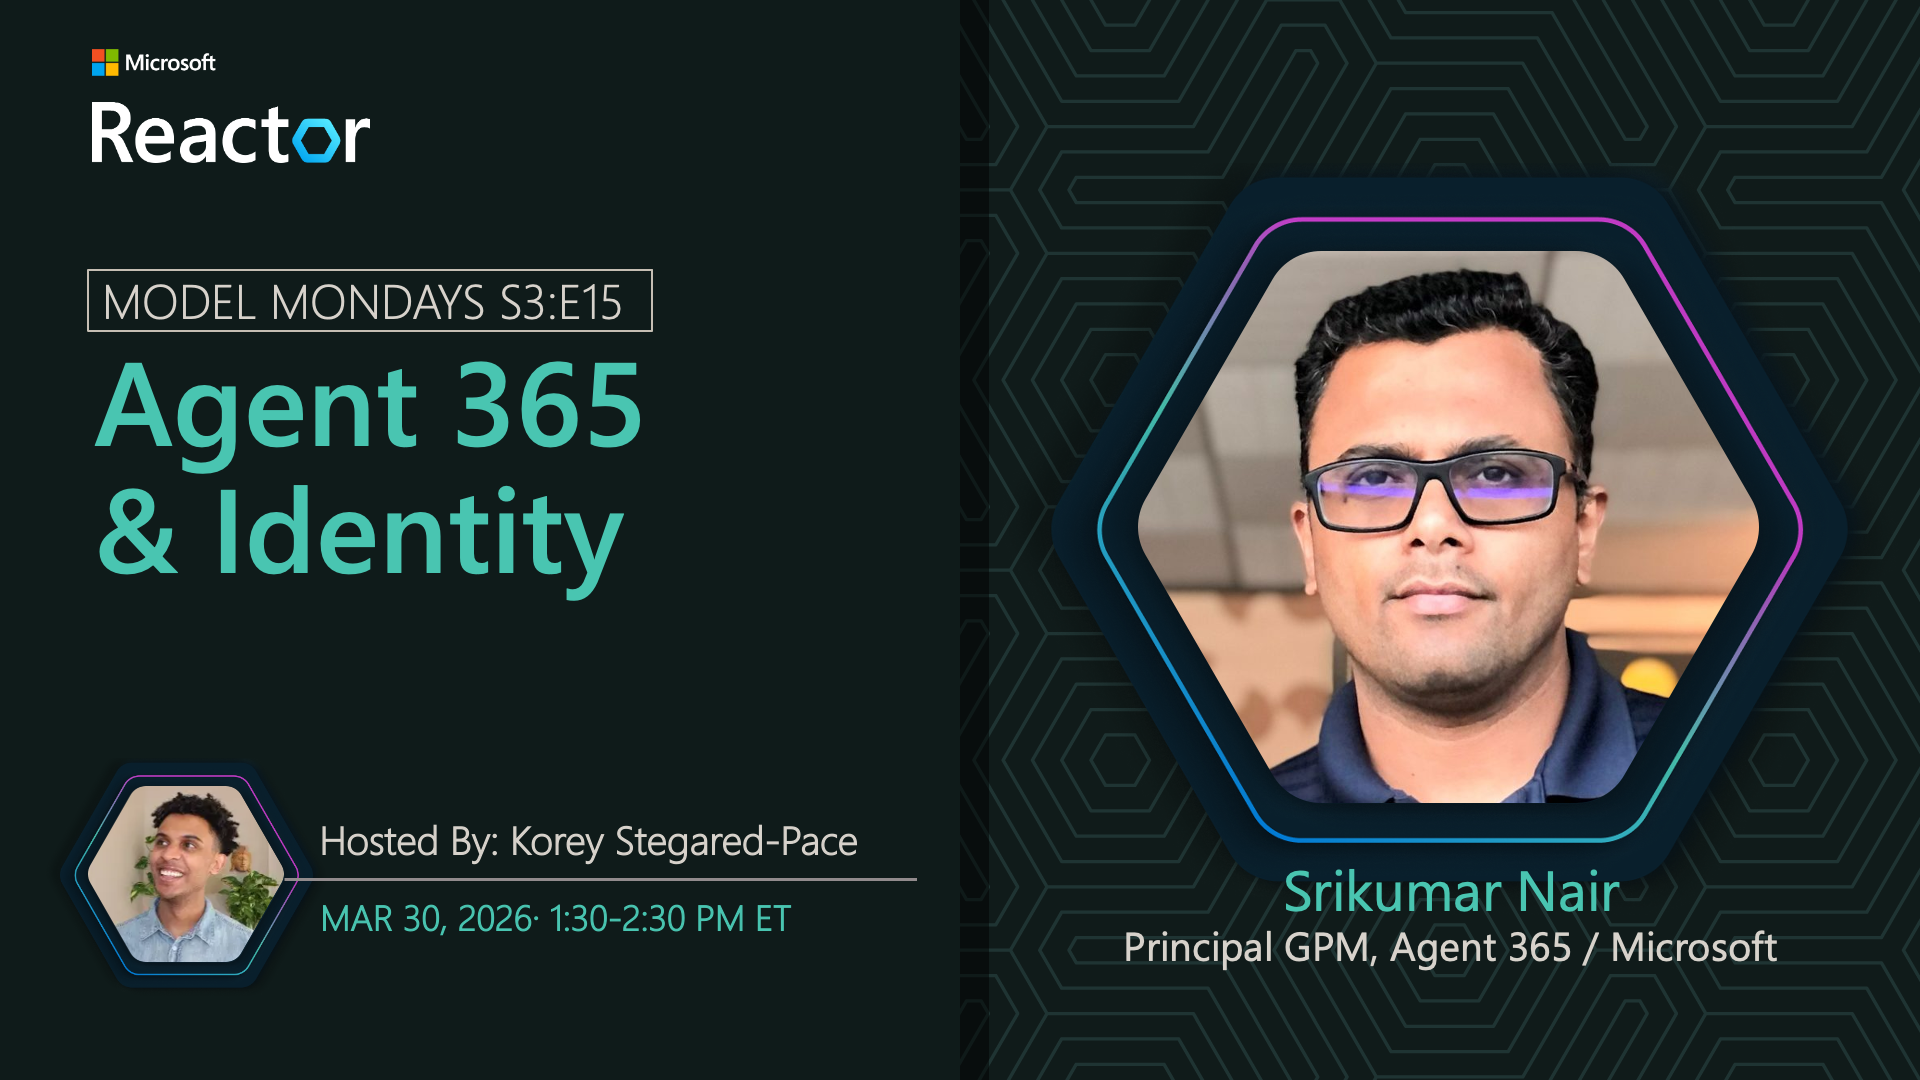
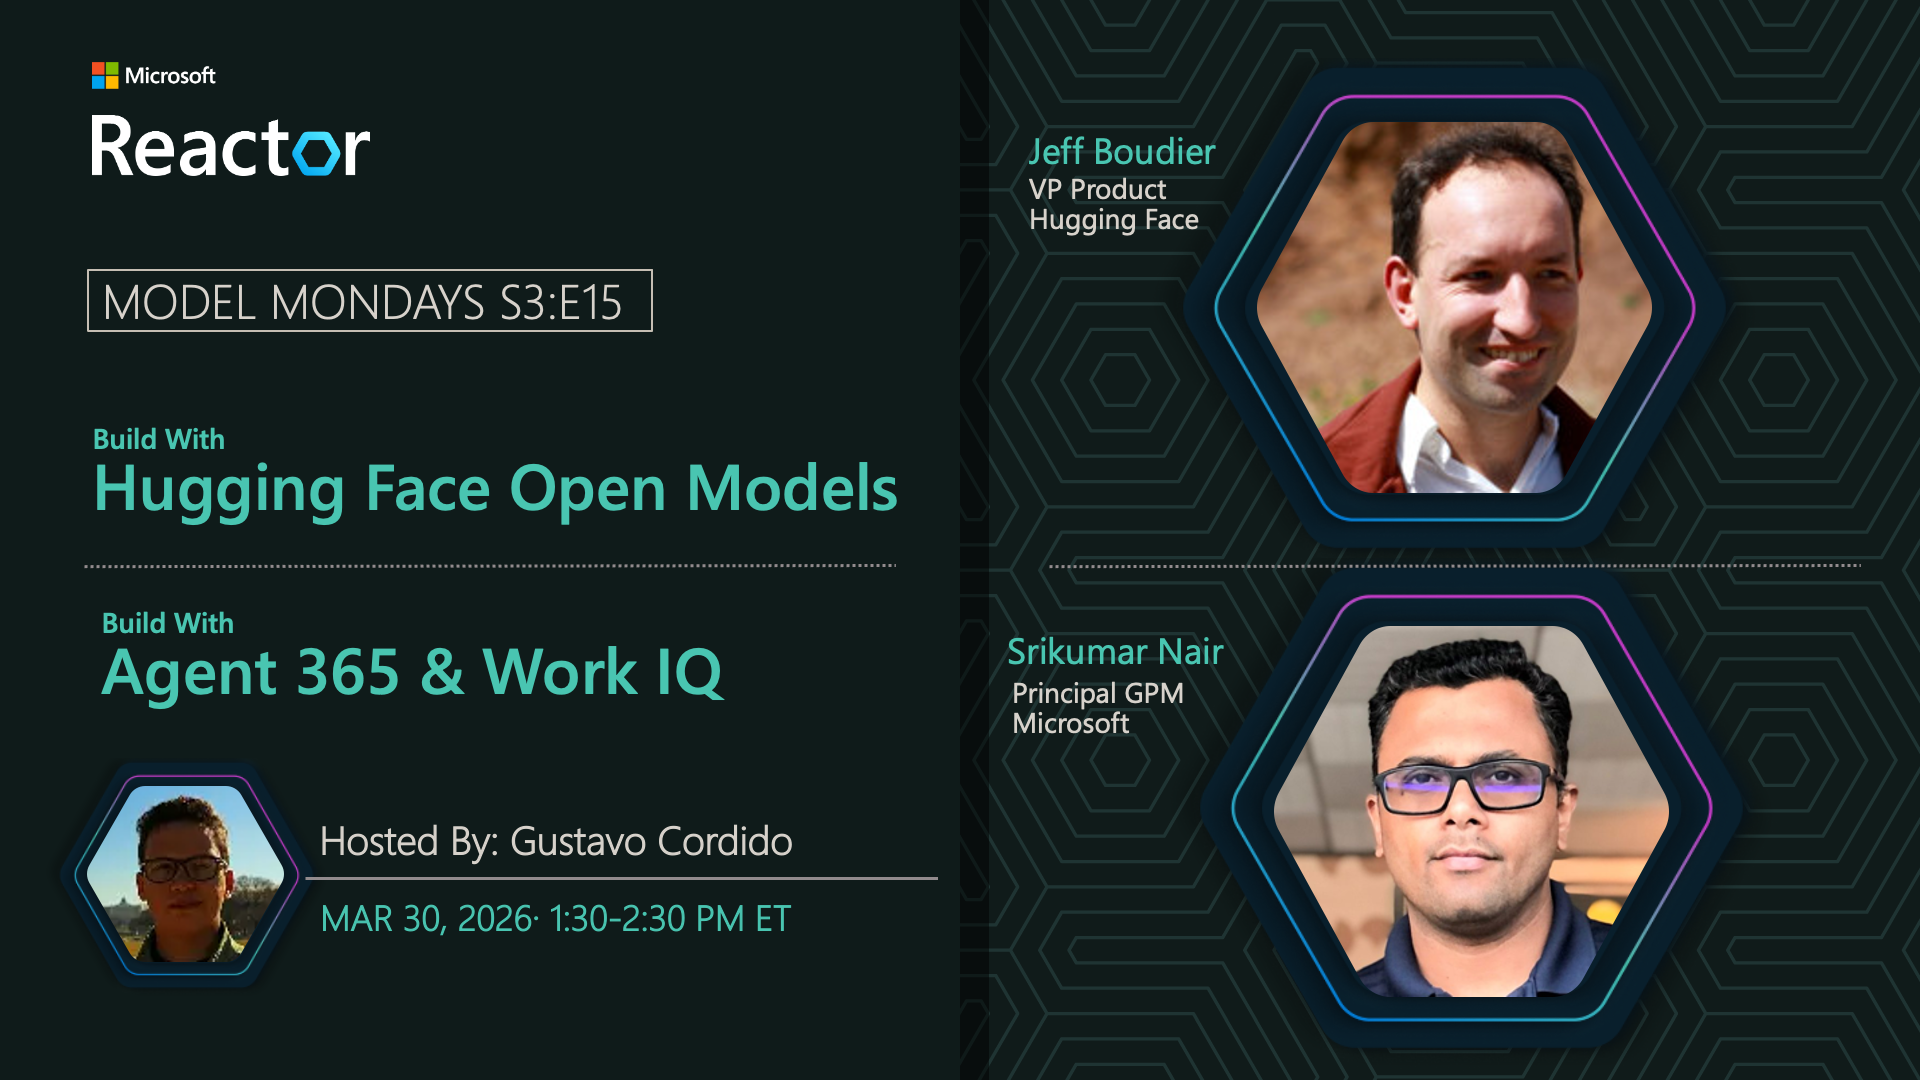
update / Mar 30

diff --git a/docs/model-mondays/2026-03-30-s03-e15.md b/docs/model-mondays/2026-03-30-s03-e15.md
@@ -1,41 +1,48 @@
 ![S3-E15](../assets/model-mondays/S3-E15.png)
 
-## Agent 365
+## Spotlight on: Hugging Face, Agent 365 & Work IQ
 
-**Date:** March 30, 2026  
-**Season:** 3 | **Episode:** 15  
-**Host:** [Korey Stegared-Pace](https://linkedin.com/in/koreyspace)
+- **Date:** March 30, 2026
+- **Season:** 3 | **Episode:** 15
+- **Host:** [Gustavo Cordido](https://www.linkedin.com/in/gcordido/)
 
-### News Highlights
+### News Highlights This Week
 
-1. [Agent 365 Launch](https://aka.ms/model-mondays) - Agents in the workplace
-2. [Microsoft 365 Integration](https://aka.ms/model-mondays) - Seamless work integration
-3. [Enterprise Security](https://aka.ms/model-mondays) - Secure agent deployment
-4. [Managed Infrastructure](https://aka.ms/model-mondays) - Enterprise-grade platform
-5. [Workplace Transformation](https://aka.ms/model-mondays) - AI-powered productivity
+_Join the livestream to learn about top new model and platform updates from the previous week_.
 
-### Tech Spotlight: Agent 365
+### Partner Spotlight: Hugging Face
 
-Agents are transforming the way we work – so how can we integrate them seamlessly into our work environments? Discover how Agent 365 extends infrastructure to support agents in a secure, managed way.
+![S3-E15](../assets/model-mondays/S3-E15-Jeff.png)
 
-**Key Features:**
-- Seamless Microsoft 365 integration
-- Enterprise security and compliance
-- Managed agent infrastructure
-- Workplace-optimized agents
-- Secure deployment and monitoring
 
-**Speaker:** [Srikumar Nair](https://linkedin.com/in/srikumarknair)
+| | |
+|:---:|:---|
+| Topic | **How to build AI with Hugging Face in Microsoft Foundry** |
+| Abstract | With open source models, you can build your own AI applications for text, audio, images and more. How do you deploy them securely within your enterprise environment? Join Jeff Boudier from Hugging Face to learn about the latest and greatest open models, and how to easily deploy them in your Azure account with Microsoft Foundry.  |
+| Speaker Bio | _Jeff Boudier is the Head of Product + Growth at Hugging Face, an open platform and community for AI builders._|
+| | |
 
-_Srikumar is a Partner Product Manager at Microsoft, leading Agent 365 and Microsoft 365 AI agent integration initiatives. He focuses on enabling seamless agent integration into Microsoft 365 with secure, managed infrastructure._
+<br/>
+
+### Tech Spotlight: Agent 365 and Work IQ
+![S3-E15](../assets/model-mondays/S3-E15-Srikumar.png)
+
+| | |
+|:---:|:---|
+| Topic | **Building enterprise agents that you can trust your data with** |
+| Abstract | Agents are easy to build but hard to govern, scale, and trust in real work. In this conversation, we unpack why Agent 365 as a control plane is the critical missing layer, and how Work IQ MCP servers turn productivity systems into efficient, fully governable tools for agents. Learn how moving from prompt‑level hacks to platform‑level design unlocks real productivity gains, all of this without sacrificing control. If you care about agents that actually get work done at enterprise scale, this is the paradigm shift that matters. |
+| Speaker Bio | _Srikumar is a Partner Product Manager at Microsoft, leading Agent 365 and Microsoft 365 AI agent integration initiatives._|
+| | |
 
 **Resources:**
 - [Agent 365 Documentation](https://aka.ms/model-mondays)
 - [Deployment Guide](https://aka.ms/model-mondays)
 - [Security Best Practices](https://aka.ms/model-mondays)
 
-### Summary
+<br/>
 
-Join Srikumar Nair as he explores Agent 365 and how it transforms workplace productivity by integrating agents into Microsoft 365 environments. Learn about secure deployment, managed infrastructure, and best practices for enterprise agent adoption.
+### Foundry Friday AMA
 
-**Related AMA:** [View AMA Discussion](../foundry-fridays/2026-04-03-s03-e15.md)
+Don't forget to join us for #FoundryFridays - an AMA on the [Microsoft Foundry Discord](https://aka.ms/model-mondays/discord) - to ask questions and share your feedback with the subject matter experts featured on this show.
+
+**Learn More:** [Foundry Friday AMA](../foundry-fridays/2026-04-03-s03-e15.md)
